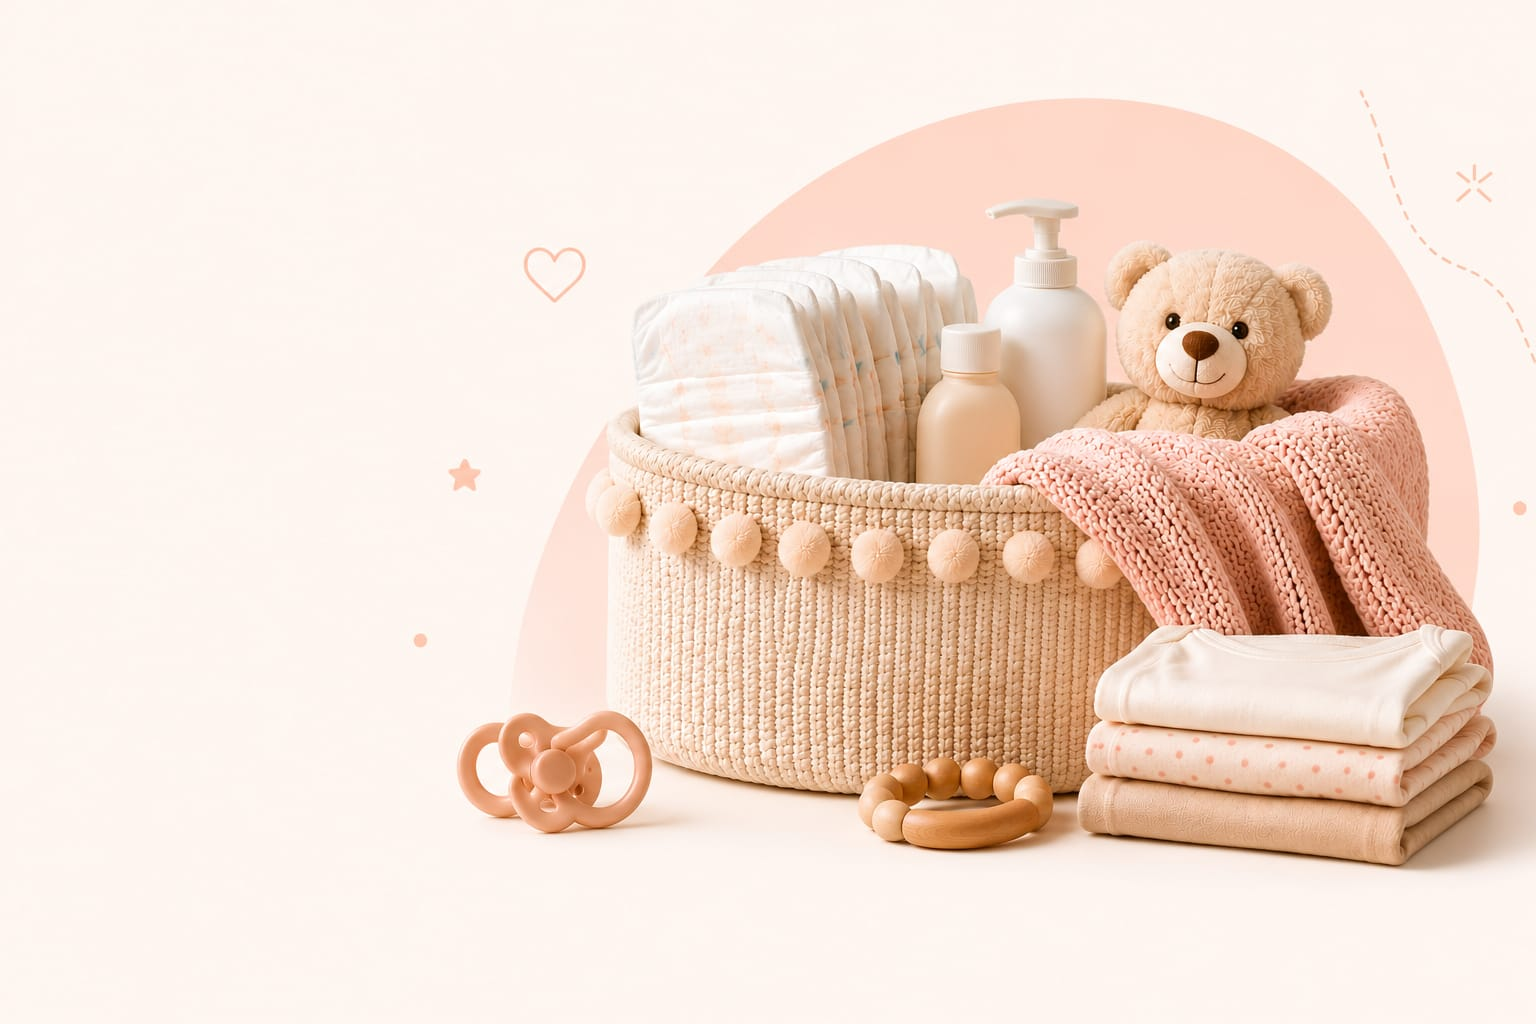
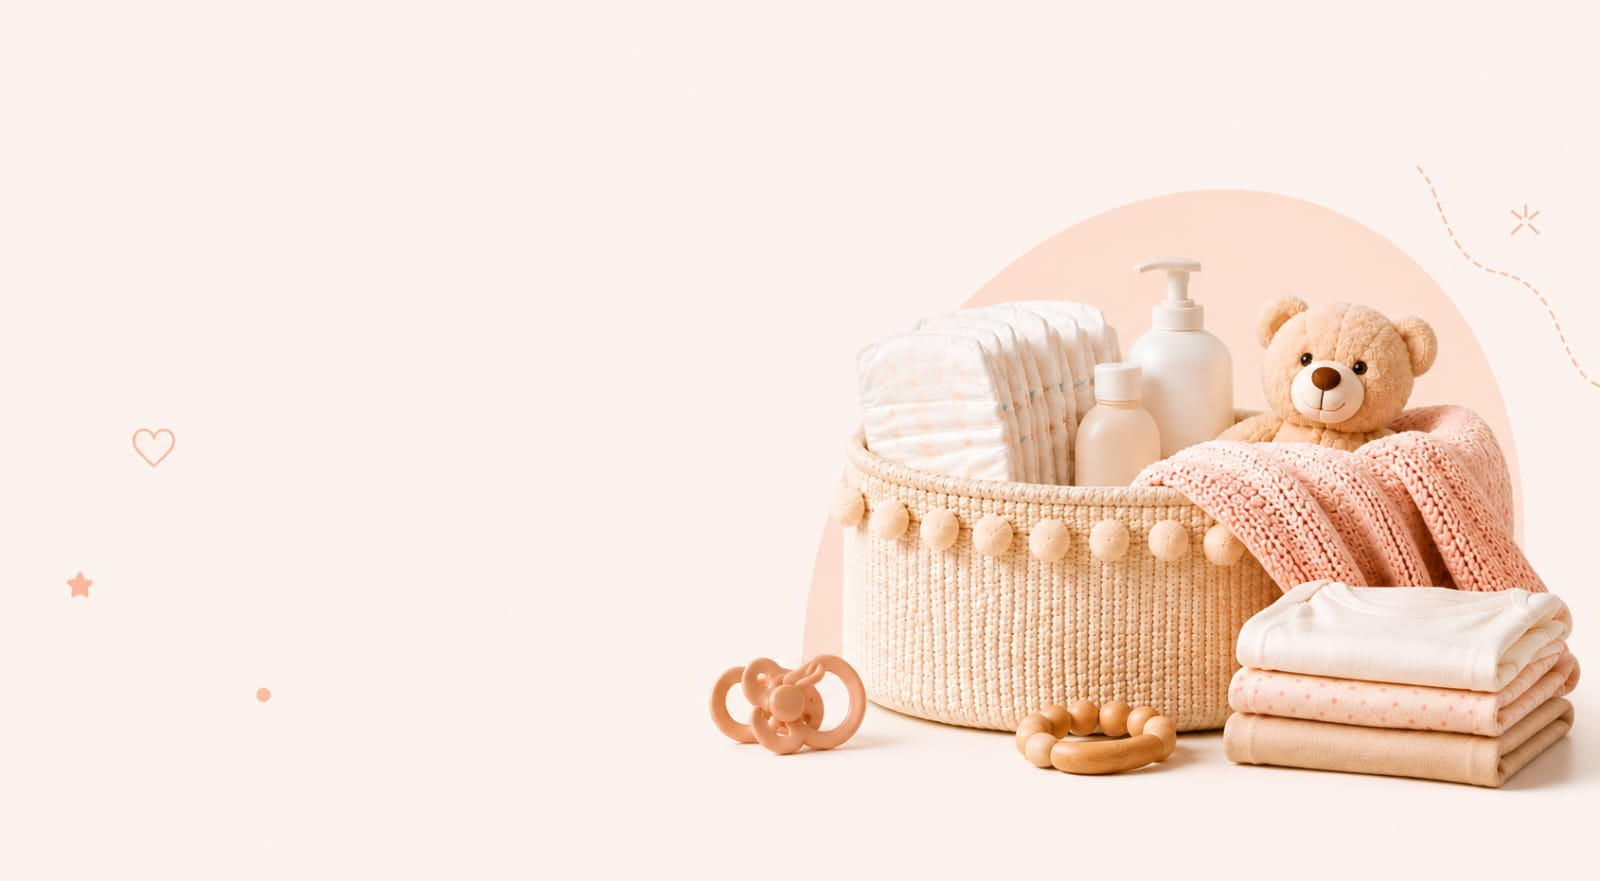
Hero con imágenes por dispositivo, botón 1 renglón, sin blur, footer celeste
- Hero: hero 1 (apaisada) en desktop con cover; hero 2 (vertical) en mobile con
  contain + fondo crema. Canasta entera, texto arriba sin taparla
- Botón "Ver productos" en un solo renglón y más bajo
- Se quitó el blur del hero
- Footer celeste pastel; WhatsApp/Instagram movidos a la columna Contacto

diff --git a/css/styles.css b/css/styles.css
@@ -7,6 +7,7 @@
 :root {
   /* Marca */
   --brand: #29abe2;          /* azul del logo */
+  --sky-pastel: #d6eef9;     /* celeste pastel (footer) */
 
   /* Acento (coral / salmón del mockup) */
   --accent: #e8856b;
@@ -291,17 +292,17 @@ img.ico { object-fit: contain; }
    ========================================================= */
 .hero { padding: 14px 0 8px; }
 .hero__inner {
-  background: linear-gradient(135deg, var(--peach-50) 0%, var(--peach-100) 100%);
+  background: #fcf3ee; /* mismo crema que la foto, para que 'contain' no deje borde */
   border-radius: var(--radius-lg);
-  padding: 22px 20px;
+  padding: 24px 20px;
   position: relative;
   overflow: hidden;
-  min-height: 330px;
+  min-height: 472px;
   display: flex;
-  align-items: stretch;
+  align-items: flex-start;
 }
 .hero__content {
-  position: relative; z-index: 2; max-width: 57%;
+  position: relative; z-index: 2; max-width: 82%;
   display: flex; flex-direction: column; align-items: flex-start;
 }
 .pill {
@@ -314,8 +315,8 @@ img.ico { object-fit: contain; }
   letter-spacing: -.02em; margin-bottom: 10px;
 }
 .hero__title-accent { color: var(--accent); }
-.hero__text { color: var(--ink-soft); font-size: 13px; max-width: 26ch; margin-bottom: 14px; }
-.hero__cta { padding: 8px 18px; font-size: 13px; margin-top: auto; }
+.hero__text { color: var(--ink-soft); font-size: 13px; max-width: 30ch; margin-bottom: 14px; }
+.hero__cta { padding: 9px 22px; font-size: 13.5px; white-space: nowrap; }
 .hero__trust { display: none; }
 
 .btn {
@@ -333,18 +334,13 @@ img.ico { object-fit: contain; }
 .hero__pic { display: contents; }
 .hero__photo {
   position: absolute; inset: 0; width: 100%; height: 100%;
-  object-fit: cover; object-position: 60% center; z-index: 0;
+  object-fit: contain; object-position: center bottom; z-index: 0;
 }
-/* degradé + desenfoque a la izquierda para que el texto se lea bien sobre la foto */
+/* MOBILE: texto arriba sobre la crema → degradé suave de arriba */
 .hero__scrim {
   position: absolute; inset: 0; z-index: 1; pointer-events: none;
-  background: linear-gradient(100deg,
-    rgba(255,246,240,.86) 0%, rgba(255,246,240,.72) 34%,
-    rgba(255,246,240,.28) 54%, rgba(255,246,240,0) 74%);
-  backdrop-filter: blur(7px);
-  -webkit-backdrop-filter: blur(7px);
-  -webkit-mask: linear-gradient(100deg, #000 0%, #000 46%, transparent 72%);
-  mask: linear-gradient(100deg, #000 0%, #000 46%, transparent 72%);
+  background: linear-gradient(180deg,
+    rgba(255,246,240,.55) 0%, rgba(255,246,240,.18) 32%, rgba(255,246,240,0) 50%);
 }
 
 /* =========================================================
@@ -469,19 +465,19 @@ img.ico { object-fit: contain; }
 /* =========================================================
    FOOTER
    ========================================================= */
-.footer { background: var(--ink); color: #c7d0e0; margin-top: 10px; }
-.footer__inner { display: grid; grid-template-columns: 1fr; gap: 28px; padding-top: 36px; padding-bottom: 28px; }
+.footer { background: var(--sky-pastel); color: var(--ink-soft); margin-top: 10px; }
+.footer__inner { display: grid; grid-template-columns: 1fr; gap: 26px; padding-top: 34px; padding-bottom: 26px; }
 .footer__brand .logo__img { width: 88px; height: 88px; margin-bottom: 8px; }
-.footer__brand p { font-size: 14px; max-width: 34ch; }
-.footer__social { display: flex; gap: 10px; margin-top: 16px; }
+.footer__brand p { font-size: 14px; max-width: 34ch; color: var(--ink-soft); }
+.footer__social { display: flex; gap: 10px; margin-top: 12px; }
 .footer__social a { display: inline-flex; transition: transform .2s var(--ease); }
 .footer__social a:hover { transform: translateY(-2px); }
 .footer__social img { width: 42px; height: 42px; object-fit: contain; }
-.footer__col h3 { color: #fff; font-size: 15px; margin-bottom: 12px; }
+.footer__col h3 { color: var(--ink); font-size: 15px; margin-bottom: 12px; }
 .footer__col li { margin-bottom: 8px; }
-.footer__col a { font-size: 14px; transition: color .2s var(--ease); }
-.footer__col a:hover { color: #fff; }
-.footer__bottom { border-top: 1px solid rgba(255,255,255,.1); padding: 16px 0; font-size: 13px; color: #8893a8; }
+.footer__col a { font-size: 14px; color: var(--ink-soft); transition: color .2s var(--ease); }
+.footer__col a:hover { color: var(--accent); }
+.footer__bottom { border-top: 1px solid rgba(28,43,74,.12); padding: 16px 0; font-size: 13px; color: var(--ink-soft); }
 
 /* =========================================================
    WHATSAPP FLOTANTE
@@ -554,13 +550,13 @@ img.ico { object-fit: contain; }
   .hero__photo {
     position: absolute; inset: 0; order: 0;
     width: 100%; height: 100%; border-radius: 0;
-    object-fit: cover; object-position: center 42%; z-index: 0;
+    object-fit: cover; object-position: center center; z-index: 0;
   }
   .hero__scrim {
     display: block; position: absolute; inset: 0; z-index: 1; pointer-events: none;
     background: linear-gradient(90deg,
-      var(--cream) 0%, rgba(255,246,240,.85) 22%,
-      rgba(255,246,240,.35) 40%, rgba(255,246,240,0) 55%);
+      var(--cream) 0%, rgba(255,246,240,.8) 24%,
+      rgba(255,246,240,.25) 42%, rgba(255,246,240,0) 56%);
   }
 
   /* categorías en fila de cards */

diff --git a/index.html b/index.html
@@ -169,10 +169,6 @@
           <img class="logo__img" src="assets/logo.png" alt="La Pañalera" width="1052" height="1052" />
         </span>
         <p>Todo lo que tu bebé necesita, seleccionado con amor. Mendoza, Argentina.</p>
-        <div class="footer__social">
-          <a href="#" id="footerWaIcon" target="_blank" rel="noopener" aria-label="WhatsApp"><img src="assets/icons/whatsapp.png" alt="WhatsApp" /></a>
-          <a href="https://www.instagram.com/lapanaleradelmercado" target="_blank" rel="noopener" aria-label="Instagram"><img src="assets/icons/instagram.png" alt="Instagram" /></a>
-        </div>
       </div>
       <div class="footer__col">
         <h3>Categorías</h3>
@@ -180,10 +176,10 @@
       </div>
       <div class="footer__col">
         <h3>Contacto</h3>
-        <ul>
-          <li><a href="#" id="footerWa">WhatsApp</a></li>
-          <li><a href="https://www.instagram.com/lapanaleradelmercado" target="_blank" rel="noopener">Instagram</a></li>
-        </ul>
+        <div class="footer__social">
+          <a href="#" id="footerWaIcon" target="_blank" rel="noopener" aria-label="WhatsApp"><img src="assets/icons/whatsapp.png" alt="WhatsApp" /></a>
+          <a href="https://www.instagram.com/lapanaleradelmercado" target="_blank" rel="noopener" aria-label="Instagram"><img src="assets/icons/instagram.png" alt="Instagram" /></a>
+        </div>
       </div>
     </div>
     <div class="footer__bottom">

diff --git a/productos.html b/productos.html
@@ -131,10 +131,6 @@
           <img class="logo__img" src="assets/logo.png" alt="La Pañalera" width="1052" height="1052" />
         </span>
         <p>Todo lo que tu bebé necesita, seleccionado con amor. Mendoza, Argentina.</p>
-        <div class="footer__social">
-          <a href="#" id="footerWaIcon" target="_blank" rel="noopener" aria-label="WhatsApp"><img src="assets/icons/whatsapp.png" alt="WhatsApp" /></a>
-          <a href="https://www.instagram.com/lapanaleradelmercado" target="_blank" rel="noopener" aria-label="Instagram"><img src="assets/icons/instagram.png" alt="Instagram" /></a>
-        </div>
       </div>
       <div class="footer__col">
         <h3>Categorías</h3>
@@ -142,10 +138,10 @@
       </div>
       <div class="footer__col">
         <h3>Contacto</h3>
-        <ul>
-          <li><a href="#" id="footerWa">WhatsApp</a></li>
-          <li><a href="https://www.instagram.com/lapanaleradelmercado" target="_blank" rel="noopener">Instagram</a></li>
-        </ul>
+        <div class="footer__social">
+          <a href="#" id="footerWaIcon" target="_blank" rel="noopener" aria-label="WhatsApp"><img src="assets/icons/whatsapp.png" alt="WhatsApp" /></a>
+          <a href="https://www.instagram.com/lapanaleradelmercado" target="_blank" rel="noopener" aria-label="Instagram"><img src="assets/icons/instagram.png" alt="Instagram" /></a>
+        </div>
       </div>
     </div>
     <div class="footer__bottom">

diff --git a/docs/PROGRESO.md b/docs/PROGRESO.md
@@ -62,6 +62,16 @@ muestra (pide login). Si una foto falla, la card muestra un ícono placeholder.
 - [x] Fotos de productos desde la hoja **info** (link de Drive → imagen). Falta hacer
       públicos los archivos en Drive para que se vean.
 
+## Ajustes 2026-06-28 (noche 2)
+- [x] Botón "Ver productos" en **un solo renglón** (`white-space: nowrap`), menos alto.
+- [x] **Sin blur** en el hero (se sacó el backdrop-filter).
+- [x] **Imágenes del hero por dispositivo** (`<picture>`): desktop usa `hero.jpeg` (apaisada,
+      ex "hero 1", `cover`, canasta a la derecha); mobile usa `hero-mobile.jpeg` (vertical,
+      ex "hero 2", `object-fit: contain` con fondo `#fcf3ee` = crema de la foto). Así la
+      canasta queda ENTERA y el texto va arriba, sin quedar debajo de las letras.
+- [x] **Footer celeste pastel** (`--sky-pastel: #d6eef9`, texto navy) y los iconos de
+      WhatsApp/Instagram movidos a la columna **Contacto** (antes estaban sueltos arriba).
+
 ## Ajustes 2026-06-28 (noche)
 - [x] Fotos de productos **funcionando** (cliente hizo públicos los archivos de Drive).
 - [x] **Iconos del cliente** (iconos 1 y 2, gris/coral) en `assets/icons/`: barra inferior
